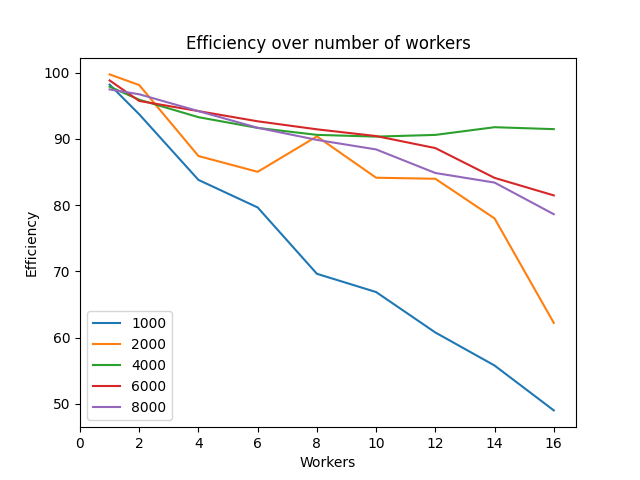
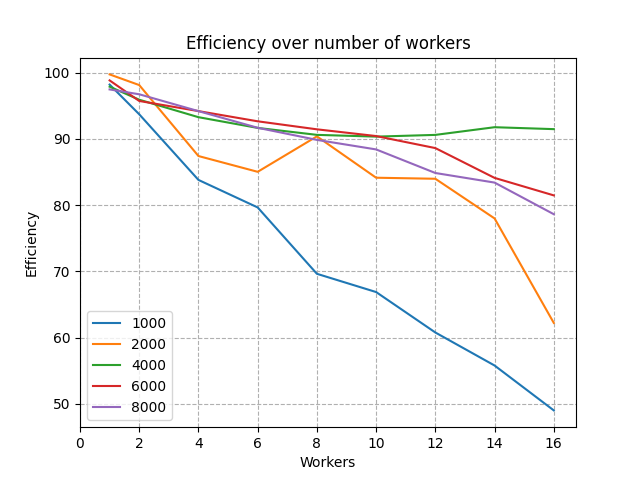
Checkpoint 02/09

diff --git a/UTWavefrontMPI.cpp b/UTWavefrontMPI.cpp
@@ -53,6 +53,20 @@ uint64_t tileWork(uint64_t minX, uint64_t minY, uint64_t maxX, uint64_t maxY,
 	return pos;
 }
 
+uint64_t sequentialTileWork(uint64_t minX, uint64_t minY, uint64_t maxX, uint64_t maxY,
+	std::vector<double> &M, const uint64_t &N, uint64_t K){
+	/* Work for a rectangular |maxX - minX + 1| * |maxY - minY + 1| tile */
+	double value;
+	for (int i = maxX; i >= (int)minX; i--){
+		for (uint64_t j = minY; j <= maxY; j++){
+			int k = K - (i - minX) + (j - minY);
+			if (k >= 1){
+				value = work((uint64_t)k, (uint64_t)i, M, N);
+			}
+		}
+	}
+}
+
 void unpackData(
 	std::vector<double> &M, const uint64_t &N,
 	uint64_t start, uint64_t end, uint64_t tileSize,
@@ -96,12 +110,13 @@ void sequentialWavefront(std::vector<double> &M, const uint64_t &N, const uint64
 	for (uint64_t K = 0; K < N; K += tileSize){
 		uint64_t numTiles = (N - K + tileSize - 1) / tileSize;
 		uint64_t pos = 0;
+		uint64_t minX, maxX, minY, maxY;
 		for (uint64_t i = 0; i < numTiles; i++){
 			minX = tileSize * i;
 			minY = minX + K;
 			maxX = std::min(minX + tileSize - 1, N - 1);
 			maxY = std::min(minY + tileSize - 1, N - 1);
-			pos = tileWork(minX, minY, maxX, maxY, M, N, K, computedData, pos);
+			sequentialTileWork(minX, minY, maxX, maxY, M, N, K);
 		}
 	}
 }

diff --git a/results/mpi_spmcluster/utils.py b/results/mpi_spmcluster/utils.py
@@ -22,6 +22,6 @@ def compare_over_nodes(N, nworkers_per_node, tileSize):
         seq_base_df = pd.DataFrame()
     for nodes, df in dfs.items():
         nworkers = nodes * nworkers_per_node
-        new_df = dfs[nodes][(dfs[nodes]['nworkers'] == nworkers) & (dfs[nodes]['tileSize'] == tileSize)][['nworkers', 'time']]
+        new_df = df[(df['nworkers'] == nworkers) & (df['tileSize'] == tileSize)][['nworkers', 'time']]
         seq_base_df = pd.concat([seq_base_df, new_df])
     return seq_base_df

diff --git a/make_plots.py b/make_plots.py
@@ -235,6 +235,7 @@ def make_comparison_plot(
         #df[key] = value[y]
     df = pd.DataFrame(field_dict)
     df.plot(kind=kind, x=x, xlabel=xlabel, ylabel=ylabel, title=title, xticks=xticks, yticks=yticks)
+    plt.grid(True, linestyle='--')
     if save:
         plt.savefig(savepath)
     if show:
